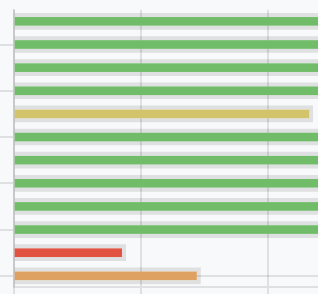
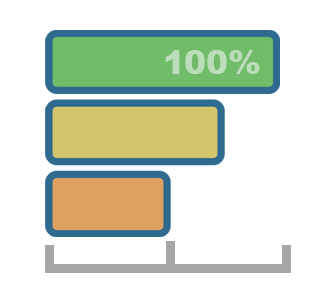
dev: :hammer: update feat img, fix coverage charts

diff --git a/nuxt-app/pages/coverage/index.vue b/nuxt-app/pages/coverage/index.vue
@@ -18,31 +18,31 @@ useHead({
   meta: [
     {
       name: "twitter:image",
-      content: "https://i.postimg.cc/Kj9MSL9k/faq.jpg",
+      content: "https://i.postimg.cc/FsGxPZJG/coverage.jpg",
     },
     {
       property: "og:image",
-      content: "https://i.postimg.cc/Kj9MSL9k/faq.jpg",
+      content: "https://i.postimg.cc/FsGxPZJG/coverage.jpg",
     },
     {
       property: "og:url",
-      content: "http://discovery.biothings.io/faq",
+      content: "http://discovery.biothings.io/coverage",
     },
     {
       name: "twitter:url",
-      content: "http://discovery.biothings.io/faq",
+      content: "http://discovery.biothings.io/coverage",
     },
     {
       property: "og:description",
-      content: "Get help with some of our most frequently asked questions",
+      content: "View complete metadata coverage across resources available on the Data Discovery Engine",
     },
     {
       name: "description",
-      content: "Get help with some of our most frequently asked questions",
+      content: "View complete metadata coverage across resources available on the Data Discovery Engine",
     },
     {
       name: "twitter:card",
-      content: "Get help with some of our most frequently asked questions",
+      content: "View complete metadata coverage across resources available on the Data Discovery Engine",
     },
   ],
 });
@@ -53,7 +53,19 @@ useHead({
     <div class="jumbotron mt-4 text-center bg-dark text-light lines">
       <h1>Resource Coverage</h1>
     </div>
-    <hr />
+    <div class="d-flex justify-content-start align-items-center">
+        <figure>
+          <img
+          class="rounded"
+          src="/assets/img/coverage-grad.png"
+          alt="coverage legend"
+          width="100px"
+        />
+        <figcaption class="text-muted">
+          <small>Indicates percentage property full coverage (0-100%)</small>
+        </figcaption>
+      </figure>
+    </div>
     <h1 class="text-muted">Datasets</h1>
     <div
       class="mainBackLight py-2 px-2 d-flex flex-wrap justify-content-around align-items-center row"

diff --git a/nuxt-app/components/HorBarChart.vue b/nuxt-app/components/HorBarChart.vue
@@ -29,11 +29,11 @@ export default {
         return v == 100
           ? "#52bf5d"
           : v >= 50
-          ? "#c8e856"
+          ? "#BCE42D"
           : v >= 30
-          ? "#d6c45c"
+          ? "#F5DE5E"
           : v >= 20
-          ? "#e89f56"
+          ? "#FFA244"
           : "#f44335";
       });
     },
@@ -45,6 +45,7 @@ export default {
           labels: Object.keys(this.totals.coverage),
           datasets: [
             {
+              barThickness: 10,
               backgroundColor: this.getColors(
                 Object.values(this.totals.coverage)
               ),
@@ -80,6 +81,7 @@ export default {
               color: "#63296b",
               font: {
                 size: 22,
+                weight: 'normal'
               },
             },
             tooltip: {
@@ -93,6 +95,21 @@ export default {
         },
       });
     },
+    sortObj(obj){
+      let sortable = [];
+      for (var key in obj) {
+          sortable.push([key, obj[key]]);
+      }
+      sortable.sort(function(a, b) {
+          return a[1] - b[1];
+      });
+      sortable = sortable.reverse();
+      let objSorted = {}
+      sortable.forEach(function(item){
+          objSorted[item[0]]=item[1]
+      })
+      return objSorted;
+    }
   },
   watch: {
     totals: function (n) {
@@ -101,6 +118,7 @@ export default {
     },
   },
   mounted: function () {
+    this.totals.coverage = this.sortObj(this.totals.coverage)
     this.visualize();
   },
 };

diff --git a/nuxt-app/pages/portal/[portal_name]/index.vue b/nuxt-app/pages/portal/[portal_name]/index.vue
@@ -1,5 +1,5 @@
 <script setup>
-import axios from "axios";
+// import axios from "axios";
 
 import web_pic from "@/assets/img/site.svg";
 import api_pic from "@/assets/img/api-01.svg";
@@ -8,12 +8,12 @@ import faq_pic from "@/assets/img/faq-01.svg";
 import dataset_pic from "@/assets/img/dataset-01.svg";
 import Notify from "simple-notify";
 
-import { computed, ref, watch } from "vue";
+import { computed, ref } from "vue";
 import { useStore } from "vuex";
 
 let store = useStore();
 let portals = store.getters.getPortals;
-const runtimeConfig = useRuntimeConfig();
+// const runtimeConfig = useRuntimeConfig();
 
 let portal = {};
 let featuredImg = "";
@@ -52,7 +52,6 @@ const gradient = computed(() => {
     color += "," + e.hex;
   });
   color += " 30%)";
-  //   console.log(colors);
   return color;
 });
 
@@ -165,7 +164,7 @@ useHead({
           class="text-center col-sm-12 p-0"
           :style="{ background: gradient }"
         >
-          <div class="lines p-5">
+          <div class="lines p-5" style="min-height: 250px;">
             <img
               class="mt-4"
               :src="portal.image"
